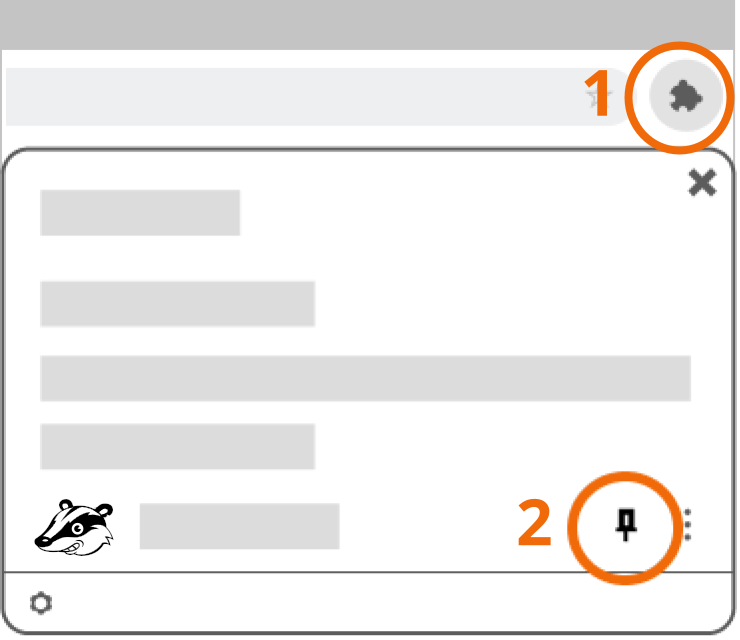
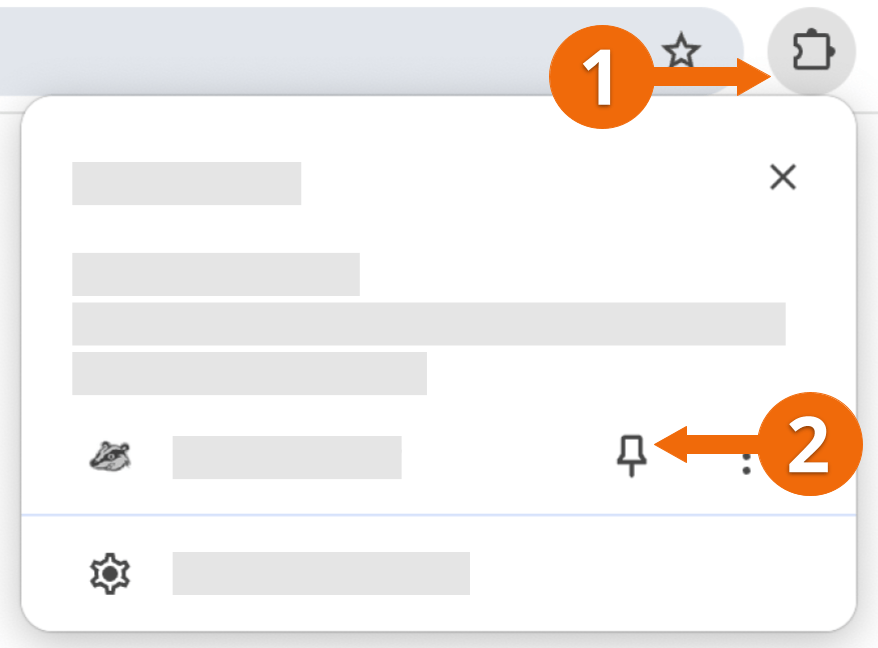
Make pin nudge harder to (dis)miss (#3074)
- Darken the welcome page overlay
- Brighten the nudge dialog: orange border, bold text
- Remove the "X" dismiss icon from the dialog
- Make clicking outside to dismiss the dialog require two clicks
- Update pinning instructions graphics to current Chrome UI
- Add an Opera-specific pinning instructions graphic (no RTL version)
- Restore the dialog tail

diff --git a/src/skin/js/firstRun.js b/src/skin/js/firstRun.js
@@ -1,4 +1,4 @@
-$(function () {
+function initWelcomePage() {
   let already_set = false;
 
   $(".scroll-it").smoothScroll();
@@ -15,8 +15,12 @@ $(function () {
       });
     }
   });
+}
 
-  function hideNudgeOverlay() {
+function initPinNudge() {
+  let num_outside_clicks = 0;
+
+  function hideNudge() {
     $("body").css('overflow', 'auto');
     $("#pin-nudge").fadeOut();
     $("#overlay").fadeOut();
@@ -27,17 +31,21 @@ $(function () {
   function clickHandler(e) {
     // Hide the pin nudge when a user clicks outside the popup
     if (!document.getElementById('pin-nudge').contains(e.target)) {
-      hideNudgeOverlay();
+      num_outside_clicks++;
+      if (num_outside_clicks > 1) {
+        num_outside_clicks = 0;
+        hideNudge();
+      }
     }
   }
 
   function keydownHandler(e) {
     // Hide the pin nudge when a user presses 'Esc'
-    if (e.keyCode === 27) {
-      hideNudgeOverlay();
+    if (e.keyCode === 27 && $('#pin-nudge').css('display') != 'none') {
+      hideNudge();
     } else if (e.keyCode === 9) {
       // Trap focus within the popup
-      $("#dismiss-nudge").trigger("focus");
+      $("#pin-nudge").trigger("focus");
       e.preventDefault();
     }
   }
@@ -47,15 +55,28 @@ $(function () {
   async function checkIsPinned() {
     let userSettings = await chrome.action.getUserSettings();
     if (userSettings.isOnToolbar) {
-      hideNudgeOverlay();
+      hideNudge();
       clearInterval(interval_id);
     }
   }
 
   function renderNudge() {
+    // switch the instructional graphic for Opera
+    if (window.navigator.userAgent.match(/OPR\//)) {
+      $('#pin-image').attr("src", "images/pinning-instructions-opera.png");
+      // don't fix the tail if already fixed for RTL
+      if ($('#pin-nudge-tail').css('left') != '10px') {
+        $('#pin-nudge-tail').css({
+          left: 'unset',
+          right: '10px'
+        });
+      }
+    }
+
     $("#pin-nudge-text").html(
       chrome.i18n.getMessage("intro_pin_nudge",
         [chrome.i18n.getMessage("popup_disable_for_site")]));
+
     $("#pin-nudge").show();
 
     $("#overlay").show();
@@ -63,11 +84,6 @@ $(function () {
 
     document.addEventListener("click", clickHandler);
     document.addEventListener("keydown", keydownHandler);
-
-    $("#dismiss-nudge").on("click", function (e) {
-      e.preventDefault();
-      hideNudgeOverlay();
-    });
   }
 
   // Don't show the pin nudge in Firefox because extensions are pinned automatically
@@ -87,4 +103,9 @@ $(function () {
       }
     });
   }
+}
+
+$(function () {
+  initWelcomePage();
+  initPinNudge();
 });

diff --git a/src/skin/css/firstRun.css b/src/skin/css/firstRun.css
@@ -807,7 +807,7 @@ body {
   width: 100%;
   height: 100%;
   z-index: 999;
-  background-color: #1f171782;
+  background-color: #1f1717b5;
   position: fixed;
   top: 0;
   left: 0;
@@ -819,32 +819,16 @@ body {
 	60% {transform: translateY(-5px);}
 }
 
-#dismiss-nudge {
-  float: right;
-  padding-bottom: 5px;
-  margin: 5px;
-  position: relative;
-  top: -5px;
-  right: -5px;
-}
-
-#dismiss-nudge img {
-  height: 20px;
-}
-
-#dismiss-nudge:hover img, #dismiss-nudge:focus img {
-  /* Calculated with https://codepen.io/sosuke/pen/Pjoqqp to match #F06A0A */
-  filter: invert(63%) sepia(46%) saturate(6632%) hue-rotate(356deg) brightness(95%) contrast(98%);
-}
-
 #pin-nudge-text {
+  color: #000;
+  font-size: 17px;
+  font-weight: bold;
   line-height: 1.5;
   width: 275px;
-  font-size: 17px;
 }
 
 #pin-nudge-cta {
-  font-family:"OpenSans-Bold",sans-serif;
+  font-family: "OpenSans-Bold", sans-serif;
 }
 
 #pin-image {
@@ -859,6 +843,7 @@ body {
   right: 15px;
   padding: 25px;
   z-index: 1000;
+  border: 5px solid #ef6d24;
   border-radius: 8px;
   box-shadow: rgba(0, 0, 0, 0.30) 0px 0px 20px, rgba(0, 0, 0, 0.40) 0px 25px 30px;
   animation: custom-bounce 2s ease 1;
@@ -866,6 +851,17 @@ body {
   flex-direction: column;
   align-items: center;
   gap: 10px;
+}
+
+#pin-nudge-tail {
+  width: 0;
+  height: 0;
+  border-left: 15px solid transparent;
+  border-right: 15px solid transparent;
+  border-bottom: 15px solid #ef6d24;
+  position: absolute;
+  top: -15px;
+  right: 85px;
 }
 
 #pb-privacy-policy, #pb-privacy-policy a {
@@ -917,16 +913,11 @@ body {
     color: #fff;
   }
 
-  #pin-nudge {
-    background-color: #555;
+  #pin-nudge-text {
+    color: #ddd;
   }
 
-  #dismiss-nudge img {
-    filter: invert(0.85);
-  }
-  
-  #dismiss-nudge:hover img, #dismiss-nudge:focus img {
-    /* Calculated with https://codepen.io/sosuke/pen/Pjoqqp to match #F06A0A */
-    filter: invert(63%) sepia(46%) saturate(6632%) hue-rotate(356deg) brightness(95%) contrast(98%);;
+  #pin-nudge {
+    background-color: #555;
   }
 }

diff --git a/src/skin/firstRun.html b/src/skin/firstRun.html
@@ -31,10 +31,8 @@
     <!-- Overlay nudging users to pin their extension (only shown on chromium browsers) -->
     <div id="overlay" style="display:none;"></div>
     <div id="pin-nudge" style="display:none;" role="dialog">
+      <div id="pin-nudge-tail"></div>
       <div>
-        <a href="" id="dismiss-nudge" role="button" aria-label="i18n_report_close">
-          <img src="../icons/close.svg" alt="">
-        </a>
         <p id="pin-nudge-text"></p>
       </div>
       <img id="pin-image" src="images/pinning-instructions-numbered.png" alt="i18n_intro_pin_instructions">

diff --git a/src/lib/i18n.js b/src/lib/i18n.js
@@ -83,7 +83,18 @@ function setTextDirection() {
       right: 'unset',
       left: '15px'
     });
-    $('#pin-image').attr("src", "images/pinning-instructions-rtl.png");
+    if (window.navigator.userAgent.match(/OPR\//)) {
+      $('#pin-nudge-tail').css({
+        right: 'unset',
+        left: '10px'
+      });
+    } else {
+      $('#pin-nudge-tail').css({
+        right: 'unset',
+        left: '85px'
+      });
+      $('#pin-image').attr("src", "images/pinning-instructions-rtl.png");
+    }
     $('#dismiss-nudge').css({
       float: 'left',
       right: 'unset',
